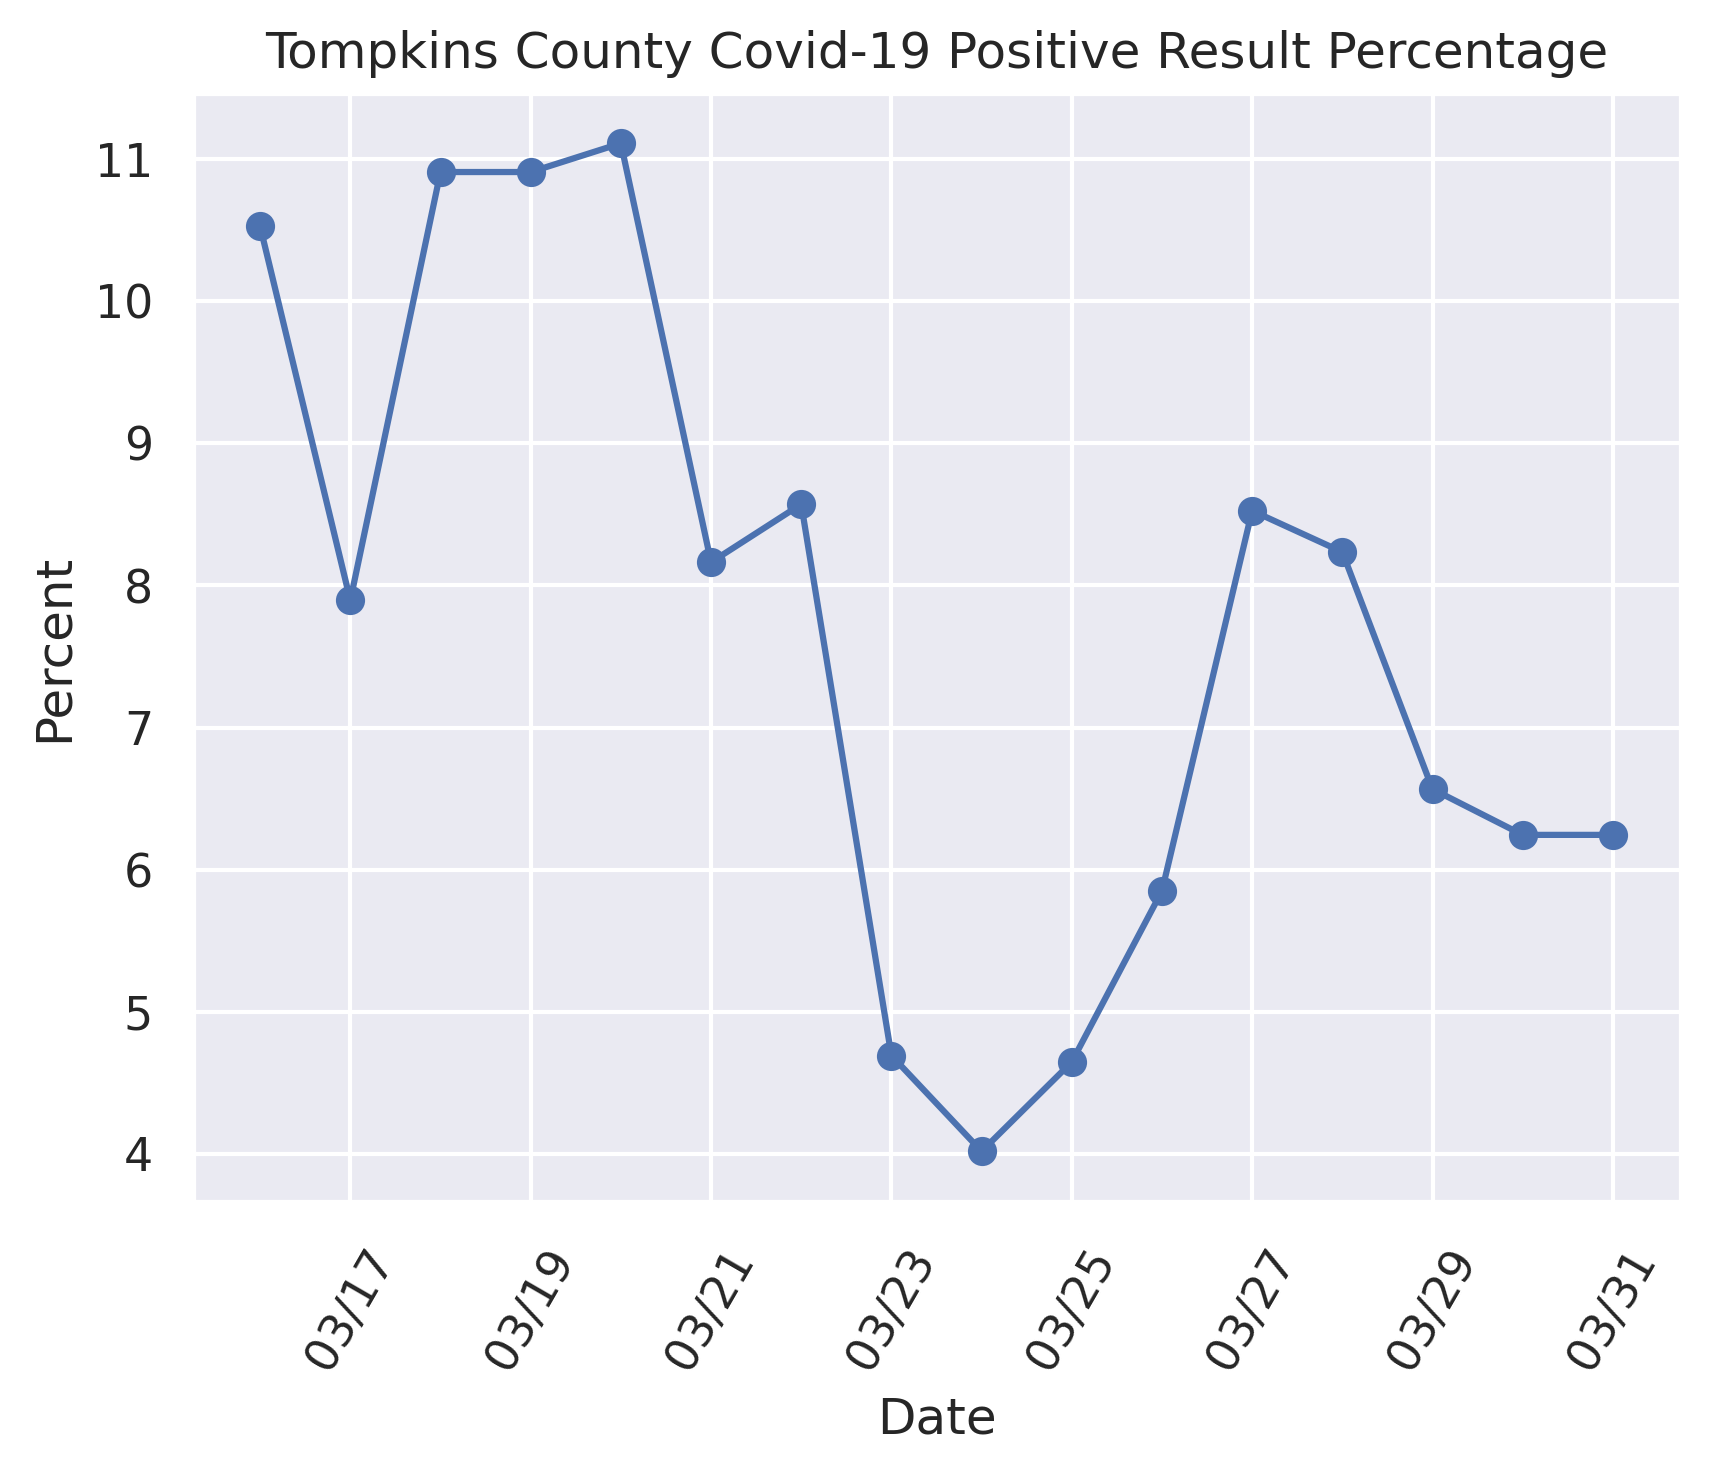
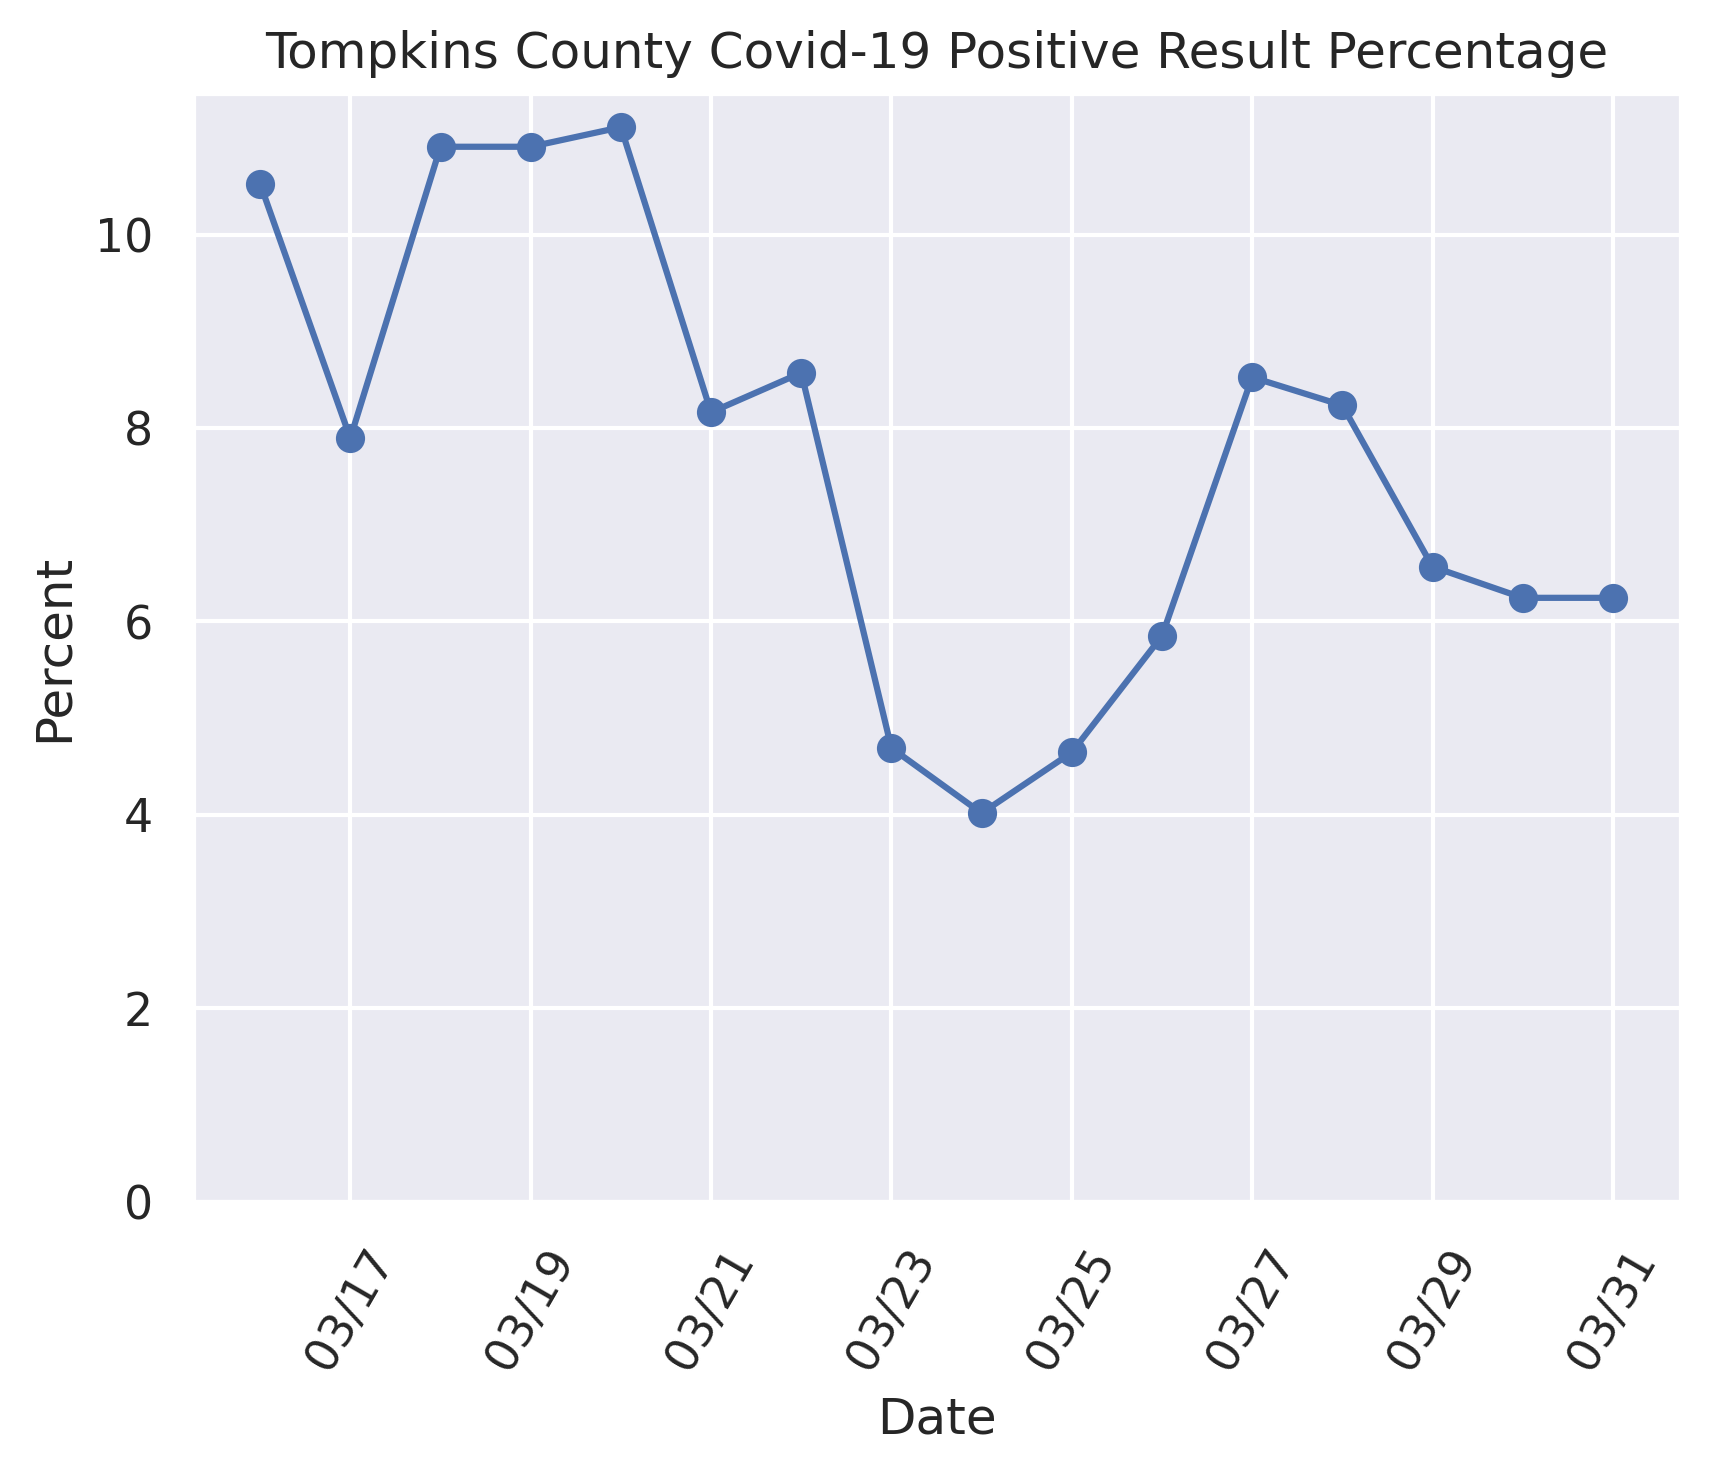
Update at 31/03/2020 15:36:23

diff --git a/app.py b/app.py
@@ -87,11 +87,11 @@ ax.set(
         title='Tompkins County Covid-19 Positive Result Percentage',
         xlabel='Date',
         ylabel='Percent')
-
+ax.set_ylim(bottom=0)
 ax.xaxis.set_major_formatter(mdates.DateFormatter('%m/%d'))
 ax.tick_params(axis='x', rotation=60)
 fig.savefig('plots/positive_cases_percent.png', dpi=300, bbox_inches='tight')
 
 # Push updates
-# os.system('git commit -am \'Update at ' + now_eastern.strftime("%d/%m/%Y %H:%M:%S") + '\'')
-# os.system('git push')
+os.system('git commit -am \'Update at ' + now_eastern.strftime("%d/%m/%Y %H:%M:%S") + '\'')
+os.system('git push')
